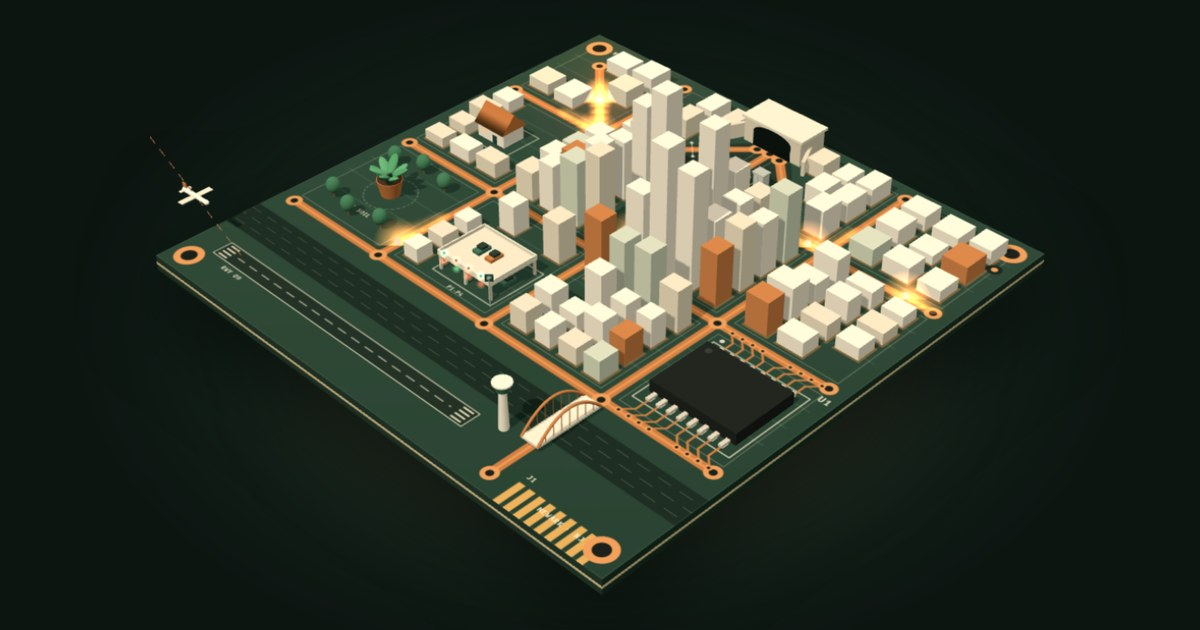
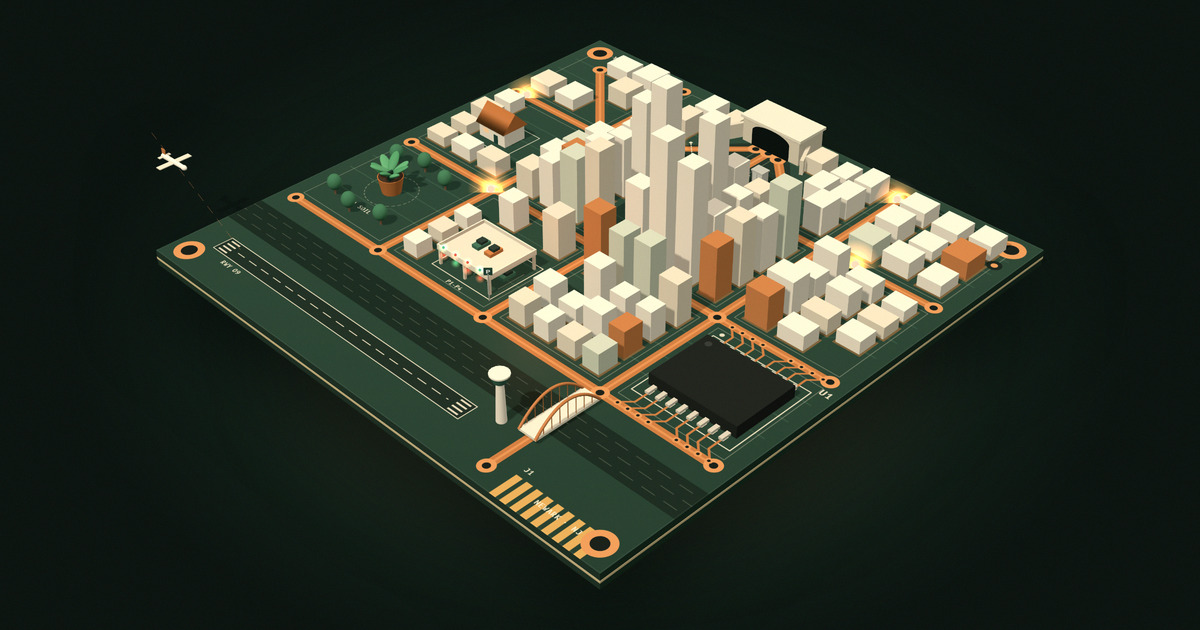
Add files via upload

Changed region(s): [[0.1233, 0.0603, 0.8942, 0.9349], [0.2467, 0.573, 0.3083, 0.6635], [0.1233, 0.2413, 0.1542, 0.2714]]

diff --git a/index.html b/index.html
@@ -10,12 +10,12 @@
 <meta property="og:type" content="website">
 <meta property="og:url" content="https://www.yannalam.com">
 <link rel="canonical" href="https://www.yannalam.com">
-<meta property="og:image" content="https://www.yannalam.com/og.jpg?v=2">
+<meta property="og:image" content="https://www.yannalam.com/og.jpg?v=3">
 <meta property="og:image:width" content="1200">
 <meta property="og:image:height" content="630">
 <meta property="og:image:alt" content="A miniature city built on a circuit board, from Yann Alam’s portfolio.">
 <meta name="twitter:card" content="summary_large_image">
-<meta name="twitter:image" content="https://www.yannalam.com/og.jpg?v=2">
+<meta name="twitter:image" content="https://www.yannalam.com/og.jpg?v=3">
 <link rel="icon" href="favicon.svg" type="image/svg+xml">
 <link rel="icon" href="favicon-32.png" sizes="32x32" type="image/png">
 <link rel="apple-touch-icon" href="apple-touch-icon.png">
